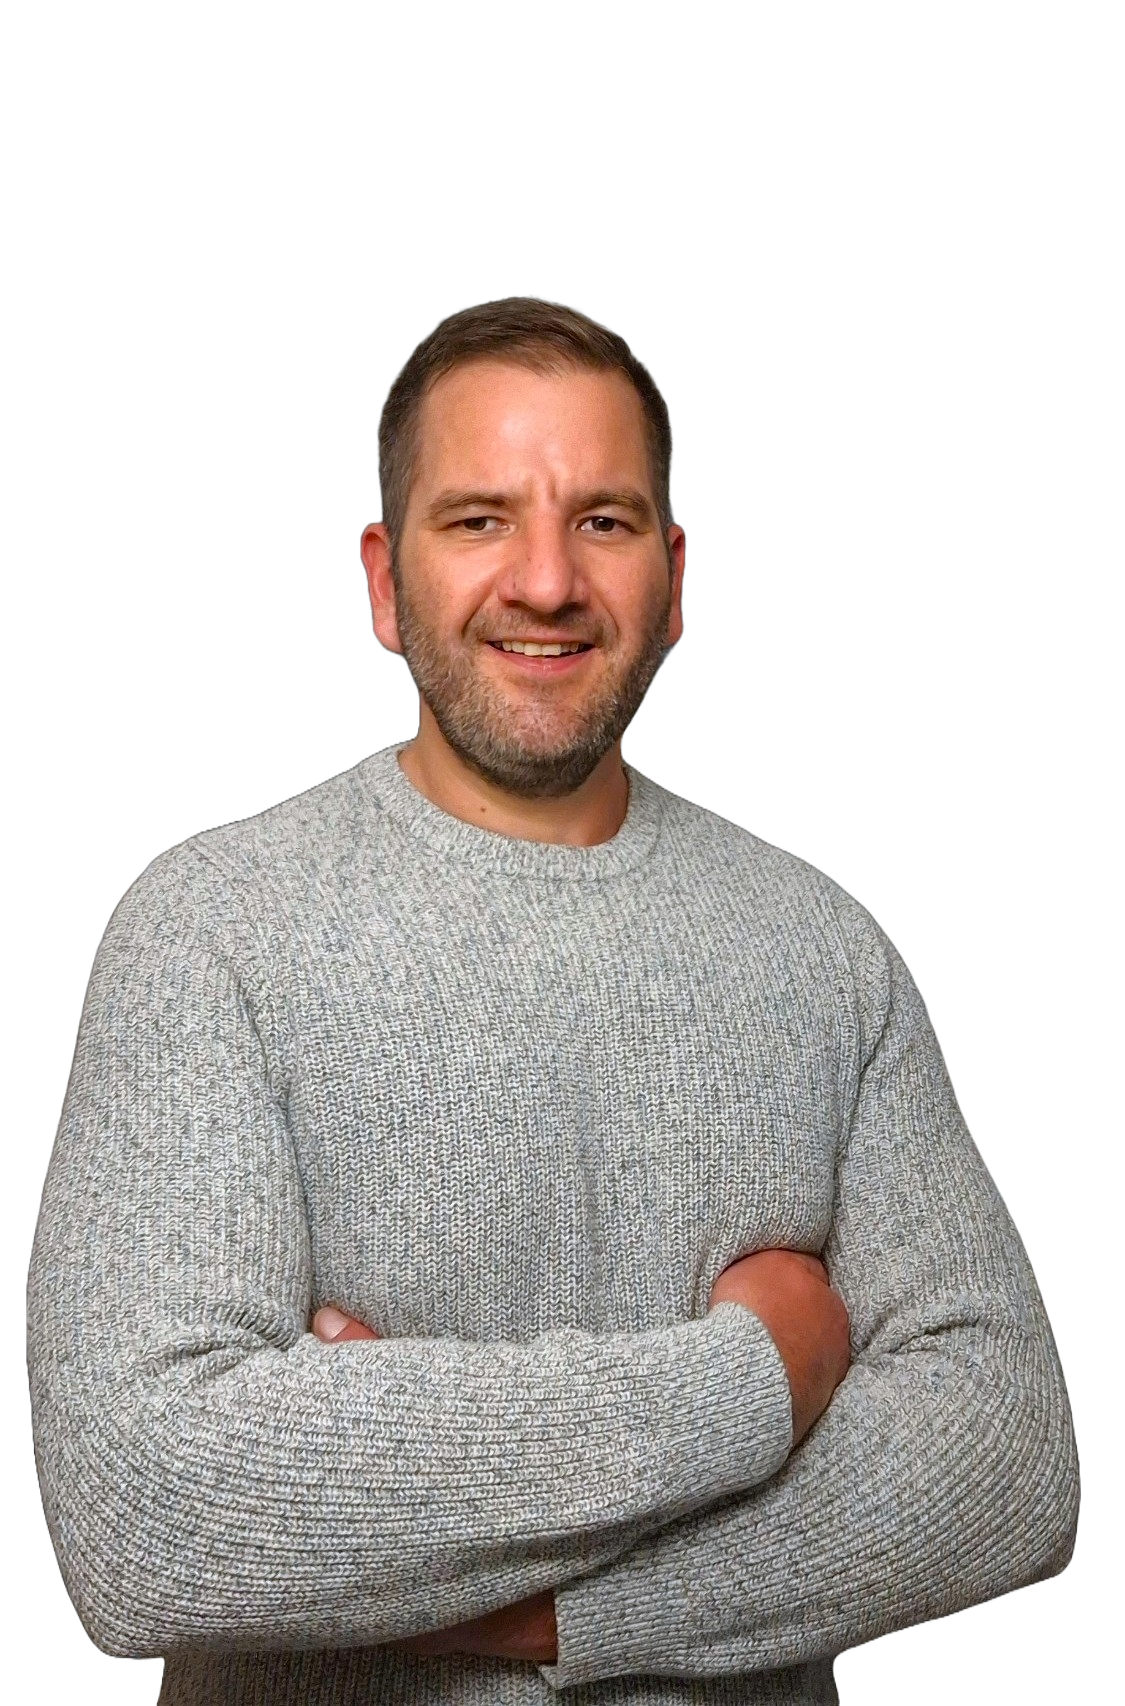
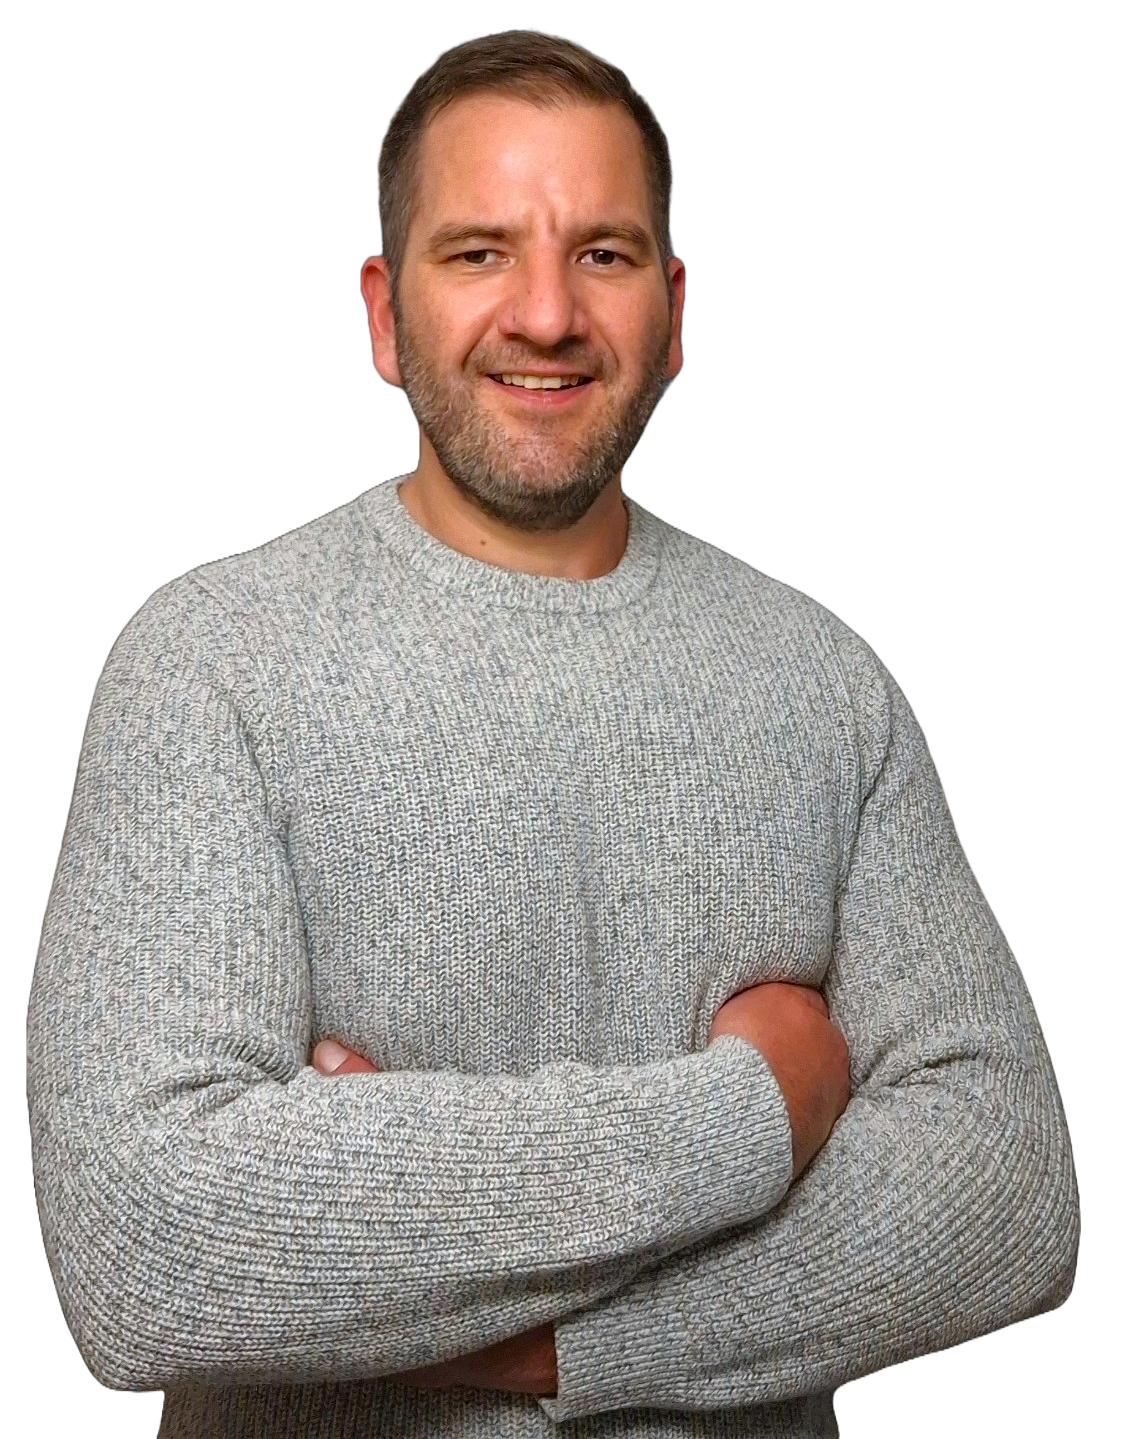
home design

diff --git a/my-portfolio/src/app/components/home/home/home.component.html b/my-portfolio/src/app/components/home/home/home.component.html
@@ -1,6 +1,6 @@
 <!-- Teljes magasságú hero, háttérkép közvetlenül a style attribútumban -->
 <section
-  class="home-wrapper d-flex align-items-center"
+  class="home-wrapper d-flex align-items-center p-4"
   style="
     background-image: url('./img/background.png');
     background-size: cover;
@@ -9,31 +9,45 @@
   "
 >
   <div class="container">
-    <div class="row g-4 align-items-center">
+    <div class="row g-4">
       <!-- Bal oldal: bemutatkozó szöveg -->
-      <div class="col-lg-6 text-light">
-        <h1 class="display-4 fw-bold mb-3">Hi, I’m John Doe</h1>
+      <div class="left-side col-lg-6 p-4">
+        <h1 class="name display-4 fw-bold mb-3">Hi, I’m Tibor Rumi</h1>
 
-        <p class="lead mb-2">
-          Frontend developer with a passion for pixel-perfect design.
-        </p>
-        <p class="mb-2">I craft fast, accessible web apps.</p>
+        <h1 class="frontend display-4 mb-2">Frontend Developer</h1>
+        <p class="mb-2">I craft responsive and engaging web experiences.</p>
         <p class="mb-2">Lifelong learner of modern&nbsp;JS.</p>
-        <p class="mb-2">Lover of coffee & mountains.</p>
+
         <p>Let’s build something amazing together.</p>
+        <button class="btn">View My Work</button>
+      </div>
+
+      <div
+        class="col-lg-1 d-flex flex-column justify-content-center align-items-end"
+      >
+        <img class="lang-5" src=".\img\typescript.png" alt="html5" />
+        <img class="lang-6" src=".\img\angular.png" alt="html5" />
+        <img class="lang-7" src=".\img\vue.png" alt="html5" />
+        <img class="lang-8" src=".\img\react.png" alt="html5" />
       </div>
 
       <!-- Jobb oldal: üveg-hatású portré -->
-      <div
-        class="col-lg-6 d-flex justify-content-lg-end justify-content-center"
-      >
+      <div class="col-lg-4 d-flex justify-content-end">
         <div class="portrait-wrapper shadow-lg">
           <img
             src=".\img\portrait.png"
             alt="Portrait of John Doe"
-            class="img-fluid rounded"
+            class="img-fluid rounded portrait"
           />
         </div>
+      </div>
+      <div
+        class="col-lg-1 d-flex flex-column justify-content-center align-items-end"
+      >
+        <img class="lang-1" src=".\img\html.png" alt="html5" />
+        <img class="lang-2" src=".\img\css.png" alt="html5" />
+        <img class="lang-3" src=".\img\bootstrap.png" alt="html5" />
+        <img class="lang-4" src=".\img\javascript.png" alt="html5" />
       </div>
     </div>
   </div>

diff --git a/my-portfolio/src/app/components/home/home/home.component.scss b/my-portfolio/src/app/components/home/home/home.component.scss
@@ -1,18 +1,64 @@
+@import url("https://fonts.googleapis.com/css2?family=Montserrat:wght@400;600&display=swap");
+
 :root {
   --bg-dark: #0f0f0f;
   --accent: #b89366;
   --accent-light: #cfa878;
+  --text-light: #e6e0d6;
+
+  --bg-dark: #0f0f0f;
+  --bg-mid: #1a1a1a;
+  --surface-dark: #30261f;
+  --surface: #4a3a2e;
+
+  --text-light: #e6e0d6;
+
+  --accent-dark: #8c6b46;
+  --accent: #b89366;
+  --accent-light: #cfa878;
+  --accent-lighter: #e0bf8c;
+
+  --deep-umber: #784f3a;
+  --sand-gold: #d4b287;
+  --highlight: #ffd9b0;
 }
 
 /* NINCS háttérkép itt, csak a tipográfia és a portré-kártya stílusa */
 .home-wrapper {
   min-height: 100vh;
-  padding: 4rem 1rem;
+  padding: 2rem 1rem;
 }
 
-h1,
 p {
-  text-shadow: 0 1px 3px rgb(0 0 0 / 60%);
+  color: #e6e0d6;
+  padding-bottom: 1.2rem;
+  font-size: 1.2rem;
+  font-family: "Edu NSW ACT Hand", cursive;
+}
+
+.name {
+  color: #f9d59f;
+  font-family: "Merriweather", serif;
+}
+
+.frontend {
+  color: #ae8654;
+  padding-bottom: 1.5rem;
+  font-family: "Merriweather", serif;
+  font-weight: 600;
+  font-size: 60px;
+}
+
+.btn {
+  background-color: #93642b;
+  margin-top: 1rem;
+  color: #e6e0d6;
+  padding: 0.5rem 1.5rem;
+  &:hover {
+    background-color: #fcd7a9;
+    transform: scale(1.05);
+    color: #3a3737;
+  }
 }
 
 .portrait-wrapper {
@@ -21,8 +67,49 @@ p {
   box-shadow: none;
 
   padding: 0;
-  border-radius: 1rem;
-  max-width: 380px;
+  border: none;
+  max-width: 400px;
+}
+
+.lang-1 {
+  max-width: 70px;
+  padding-bottom: 50px;
+  translate: -80px -30px;
+}
+.lang-2 {
+  max-width: 70px;
+  padding-bottom: 50px;
+  translate: 0px -30px;
+}
+.lang-3 {
+  max-width: 70px;
+  padding-bottom: 50px;
+  translate: 40px -20px;
+}
+.lang-4 {
+  max-width: 70px;
+  padding-bottom: 50px;
+  translate: 40px 20px;
+}
+.lang-5 {
+  max-width: 70px;
+  padding-bottom: 50px;
+  translate: -80px -30px;
+}
+.lang-6 {
+  max-width: 70px;
+  padding-bottom: 50px;
+  translate: 20px -30px;
+}
+.lang-7 {
+  max-width: 70px;
+  padding-bottom: 50px;
+  translate: -130px -20px;
+}
+.lang-8 {
+  max-width: 70px;
+  padding-bottom: 50px;
+  translate: -60px 20px;
 }
 
 @media (max-width: 991.98px) {

diff --git a/my-portfolio/src/app/components/navbar/navbar/navbar.component.html b/my-portfolio/src/app/components/navbar/navbar/navbar.component.html
@@ -1,16 +1,39 @@
-<nav class="navbar">
-  <ul>
-    <li routerLinkActive="active" [routerLinkActiveOptions]="{ exact: true }">
-      <a routerLink="/">Home</a>
-    </li>
-    <li routerLinkActive="active">
-      <a routerLink="/about">About</a>
-    </li>
-    <li routerLinkActive="active">
-      <a routerLink="/projects">Projects</a>
-    </li>
-    <li routerLinkActive="active">
-      <a routerLink="/contact">Contact</a>
-    </li>
-  </ul>
+<nav class="navbar navbar-expand-lg fixed-top bg-transparent shadow-sm">
+  <!-- LOGÓ -->
+  <div class="navbar-brand" routerLink="/">
+    <img class="logo-img" src="./img/logo.png" alt="logo" />
+  </div>
+
+  <button
+    class="navbar-toggler border-0"
+    type="button"
+    data-bs-toggle="collapse"
+    data-bs-target="#mainNavbar"
+    aria-controls="mainNavbar"
+    aria-expanded="false"
+    aria-label="Toggle navigation"
+  >
+    <span class="navbar-toggler-icon"></span>
+  </button>
+
+  <div class="collapse navbar-collapse" id="mainNavbar">
+    <ul class="navbar-nav ms-lg-auto text-center">
+      <li
+        class="nav-item"
+        routerLinkActive="active"
+        [routerLinkActiveOptions]="{ exact: true }"
+      >
+        <a routerLink="/" class="nav-link">Home</a>
+      </li>
+      <li class="nav-item" routerLinkActive="active">
+        <a routerLink="/about" class="nav-link">About</a>
+      </li>
+      <li class="nav-item" routerLinkActive="active">
+        <a routerLink="/projects" class="nav-link">Projects</a>
+      </li>
+      <li class="nav-item" routerLinkActive="active">
+        <a routerLink="/contact" class="nav-link">Contact</a>
+      </li>
+    </ul>
+  </div>
 </nav>

diff --git a/my-portfolio/src/app/components/navbar/navbar/navbar.component.scss b/my-portfolio/src/app/components/navbar/navbar/navbar.component.scss
@@ -7,30 +7,49 @@
 }
 
 .navbar {
-  background: #0f0f0f;
-  padding: 1rem 2rem;
-  box-shadow: 0 2px 4px rgb(0 0 0 / 40%);
+  // background: transparent !important;
+  // background-color: transparent !important;
+  // background-image: transparent !important;
+
+  background: linear-gradient(
+    to bottom,
+    rgba(15, 15, 15, 0.85) 0%,
+    rgba(15, 15, 15, 0.6) 50%,
+    rgba(15, 15, 15, 0.15) 100%
+  );
+
+  display: flex;
+
+  padding-right: 70px;
+
+  .logo-img {
+    max-width: 100px;
+    padding-left: 20px;
+  }
 
   ul {
     list-style: none;
     margin: 0;
-    padding: 0;
+    padding-top: 0;
 
-    /* jobb oldalra igazítás */
+    padding-right: 20px;
     display: flex;
-    justify-content: flex-end;
+
     gap: 2rem;
   }
 
   a {
     color: #b89366;
     font-weight: 600;
+    font-size: 1.1rem;
     letter-spacing: 0.5px;
     text-decoration: none;
     transition: color 0.25s ease;
+    padding-right: 30px;
 
     &:hover {
-      color: #cfa878;
+      color: #f9dcb9;
+      transform: scale(1.05);
     }
   }
 
@@ -38,4 +57,10 @@
   .active a {
     color: #e6e0d6;
   }
+}
+
+.navbar-toggler {
+  filter: invert(70%) sepia(12%) saturate(376%) hue-rotate(20deg)
+    brightness(95%) contrast(90%);
+  /* igény szerint cseréld SVG-re: .navbar-toggler-icon { background-image: url('data:...'); } */
 }

diff --git a/my-portfolio/src/index.html b/my-portfolio/src/index.html
@@ -1,13 +1,13 @@
-<!doctype html>
+<!DOCTYPE html>
 <html lang="en">
-<head>
-  <meta charset="utf-8">
-  <title>MyPortfolio</title>
-  <base href="/">
-  <meta name="viewport" content="width=device-width, initial-scale=1">
-  <link rel="icon" type="image/x-icon" href="favicon.ico">
-</head>
-<body>
-  <app-root></app-root>
-</body>
+  <head>
+    <meta charset="utf-8" />
+    <title>MyPortfolio</title>
+    <base href="/" />
+    <meta name="viewport" content="width=device-width, initial-scale=1" />
+    <link rel="icon" type="image/x-icon" href="favicon.ico" />
+  </head>
+  <body>
+    <app-root></app-root>
+  </body>
 </html>
